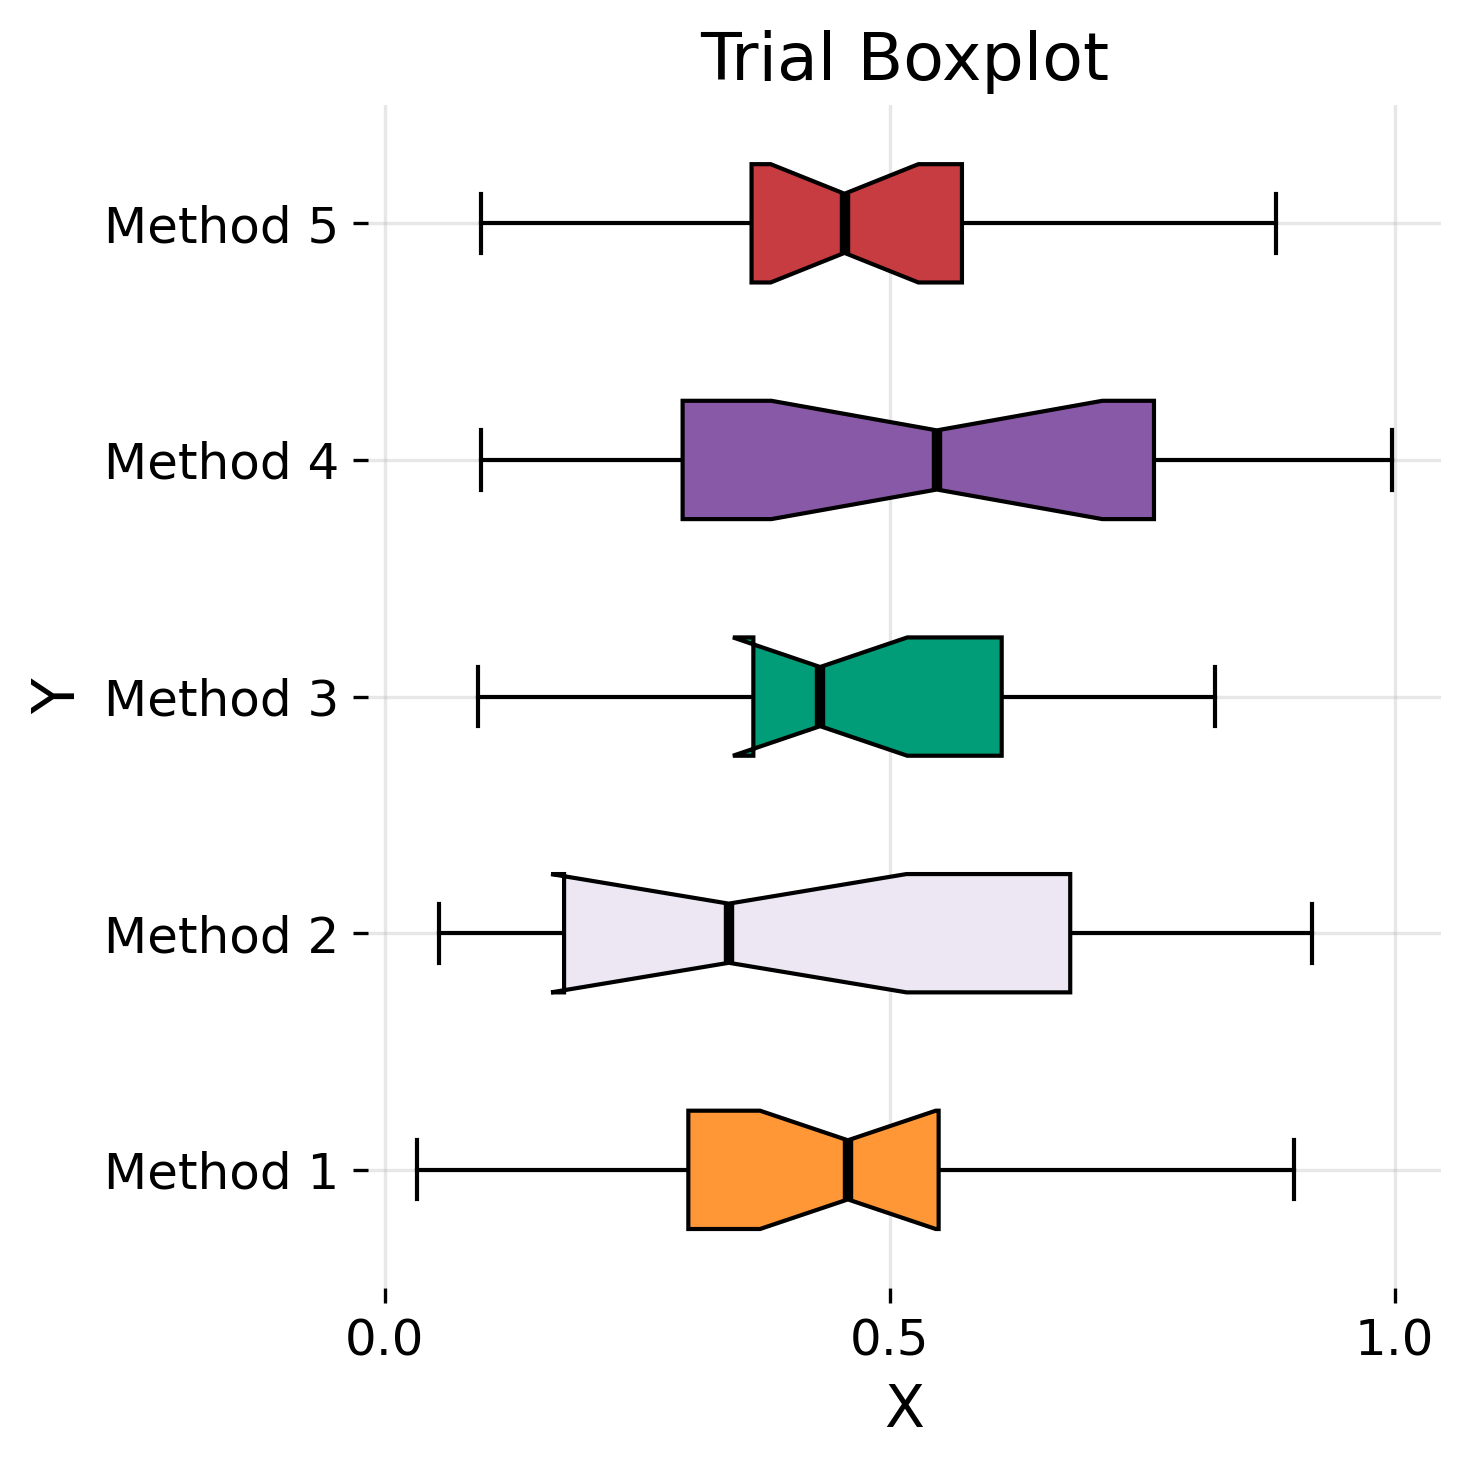
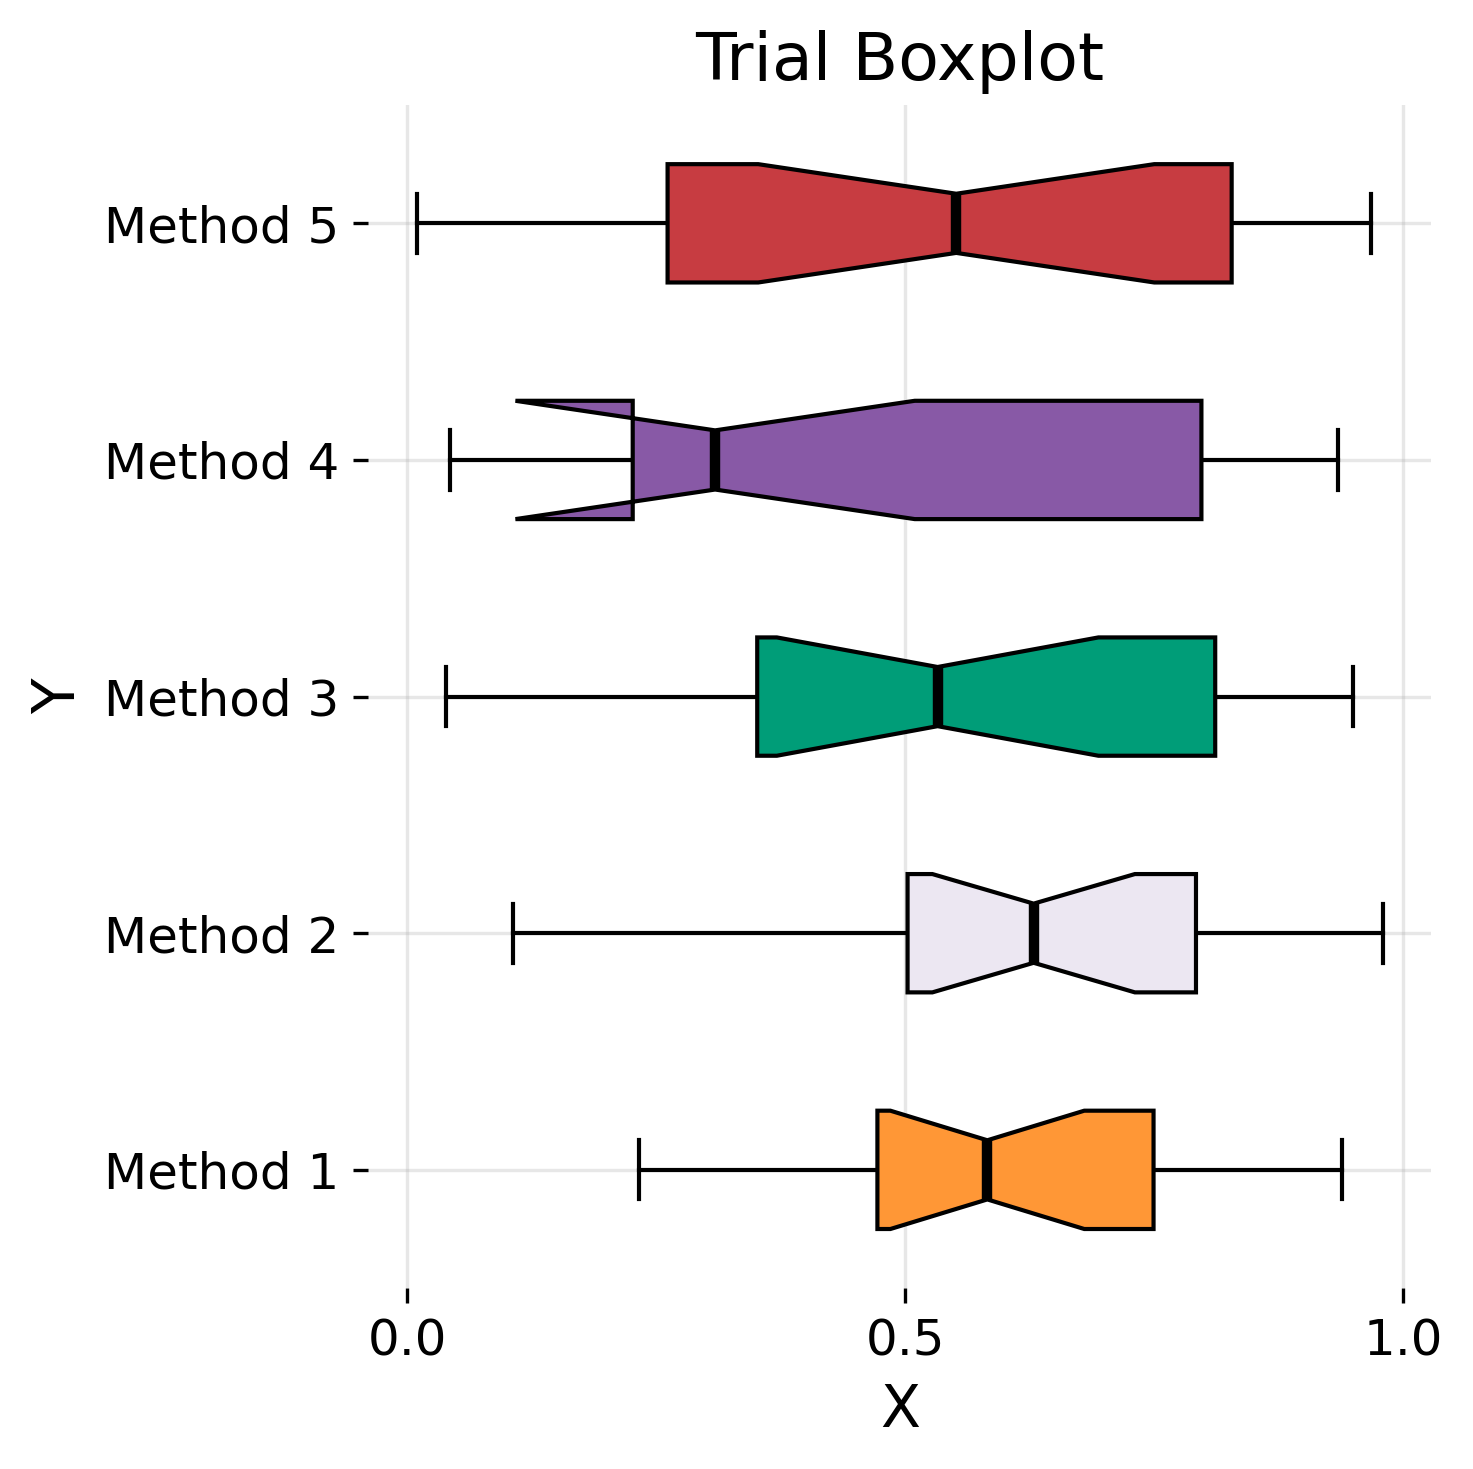
added multi boxplots and scatter plots

diff --git a/plot.py b/plot.py
@@ -327,3 +327,76 @@ def single_series_multiple_scatter_plot_single_row(xdata = [], ydata = [], compa
         plt.savefig(savename, dpi = dpi, bbox_inches = 'tight')
     else:
         plt.show()
+
+def multiple_horizontal_boxplot(data, figsize = (6,5), xlabel = "", ylabel = "", axis_label_fontsize = 14, titles = [],
+            title_fontsize = 16, xticks = [], xticklabels = [], xticklabels_fontsize = 12, 
+            yticks = [], yticklabels = [], yticklabels_fontsize = 12, box_colors = [],
+            median_lw = 2.5, colors_dict = colors, savename = "", dpi = 300):
+
+    ## Make figure
+    fig, axarr = plt.subplots(nrows = 1, ncols = len(data), figsize = figsize, sharey=True)
+    ## Set figure properties for median, font, get rid of border, and add grid in the background
+    medianprops = dict(linestyle='-.', linewidth= median_lw, color='k')
+    plt.rcParams["font.family"] = "sans-serif"
+    plt.rcParams['axes.axisbelow'] = True
+
+    if len(titles) != len(axarr):
+        titles = [f"Plot {i+1}" for i in range(len(axarr))]
+
+    for ax, X, title in zip(axarr, data, titles):
+        ax.spines["top"].set_visible(False)
+        ax.spines["right"].set_visible(False)
+        ax.spines["bottom"].set_visible(False)
+        ax.spines["left"].set_visible(False)
+        ax.grid(True, alpha = 0.3)
+        ## Make boxplot
+        bplot = ax.boxplot(x = X, vert=False, notch = True, patch_artist = True, medianprops = medianprops)
+
+        ## Set colors of the boxes in the plot
+        for patch, color in zip(bplot["boxes"], [colors_dict[C] for C in box_colors]):
+            patch.set_facecolor(color)
+    
+        ## Set xticks
+        if xticks != []:
+            ax.set_xticks(xticks)
+        if xticklabels != []:
+            ## In the event that we have input tick labels but no ticks set,
+            ## matplotlib gets weird about it, so make sure something gets set
+            ## May require additional user input
+            if xticks == []:
+                try:
+                    xticks = [float(x) for x in xticklabels]
+                except:
+                    xticks = [i+1 for i in range(len(xticklabels))]
+                ax.set_xticks(xticks)
+            ax.set_xticklabels(xticklabels, fontsize = xticklabels_fontsize)
+        else:
+            plt.xticks(fontsize = xticklabels_fontsize)
+        
+        ## Set yticks
+        if yticks != []:
+            ax.set_yticks(yticks)
+        if yticklabels != []:
+            ## In the event that we have input tick labels but no ticks set,
+            ## matplotlib gets weird about it, so make sure something gets set
+            ## May require additional user input
+            if yticks == []:
+                yticks = [i+1 for i in range(len(yticklabels))]
+            ax.set_yticklabels(yticklabels, fontsize = yticklabels_fontsize)
+        else:
+            plt.yticks(fontsize = yticklabels_fontsize)
+
+        ## Label axes
+        ax.set_xlabel(xlabel, fontsize = axis_label_fontsize)
+
+        ## Set title
+        ax.set_title(title, fontsize = title_fontsize)
+
+    axarr[0].set_ylabel(ylabel, fontsize = axis_label_fontsize)
+
+    ## Saving
+    plt.tight_layout()
+    if savename != "":
+        plt.savefig(savename, dpi = dpi, bbox_inches = 'tight')
+    else:
+        plt.show()

diff --git a/testing.py b/testing.py
@@ -36,4 +36,13 @@ single_series_multiple_scatter_plot_single_row(xdata = [np.abs(np.random.rand(10
                                   figsize=(20,5),
                                   xticklabels=["0.0", "0.5", "1.0"],
                                   yticklabels=["0.0", "0.5", "1.0"],
-                                  savename="trial_single_series_scatter_multiple_scatter.png")                                  
+                                  savename="trial_single_series_scatter_multiple_scatter.png")                                
+
+multiple_horizontal_boxplot(data = [[np.abs(np.random.rand(20)) for _ in range(5)] for Z in range(4)], 
+                          xlabel = "X", 
+                          box_colors = ["orange", "violet", "scatter green", "purple", "red"],
+                          ylabel = "Y",
+                          yticklabels = ["Method 1", "Method 2", "Method 3", "Method 4", "Method 5"],
+                          figsize=(20,5),
+                          xticklabels=["0.0", "0.5", "1.0"],
+                          savename="trial_multiple_boxplot.png")                                    
